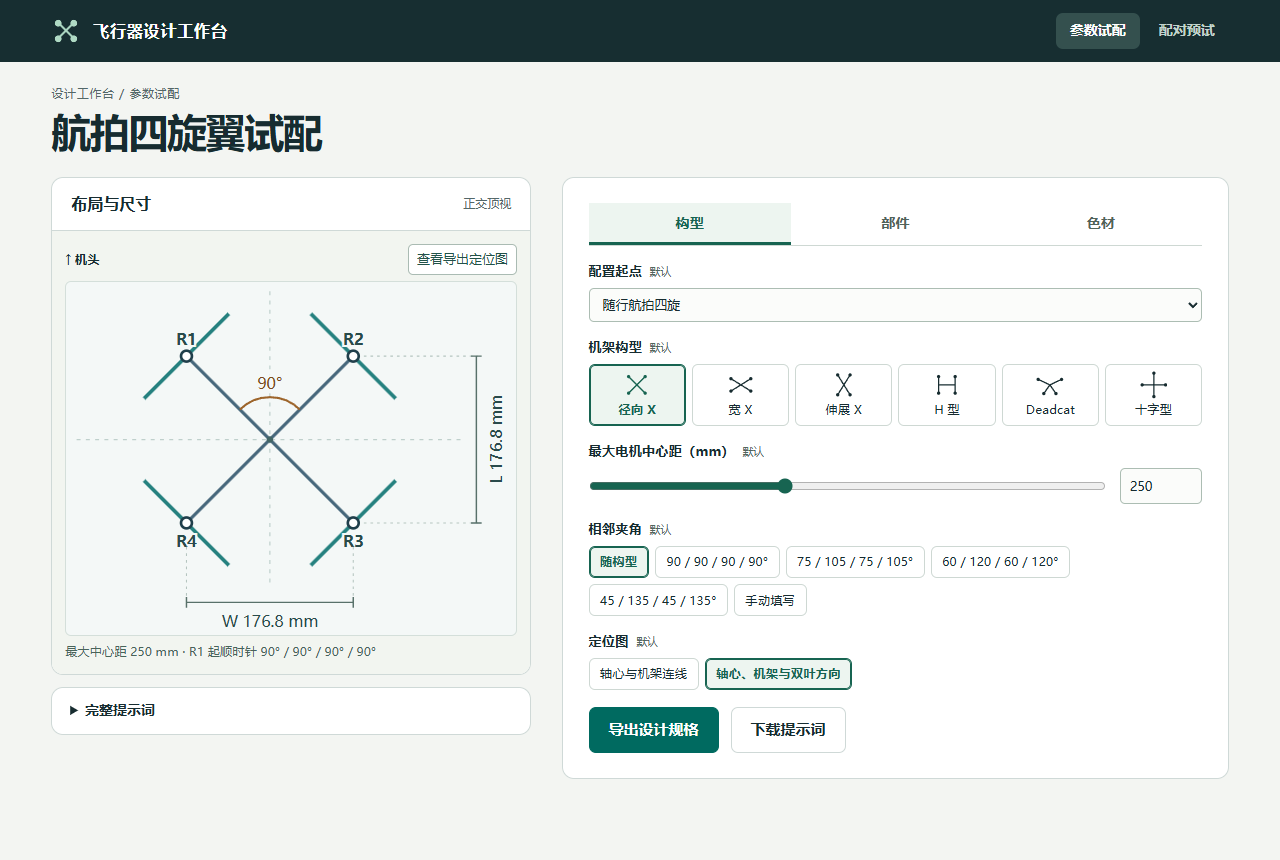
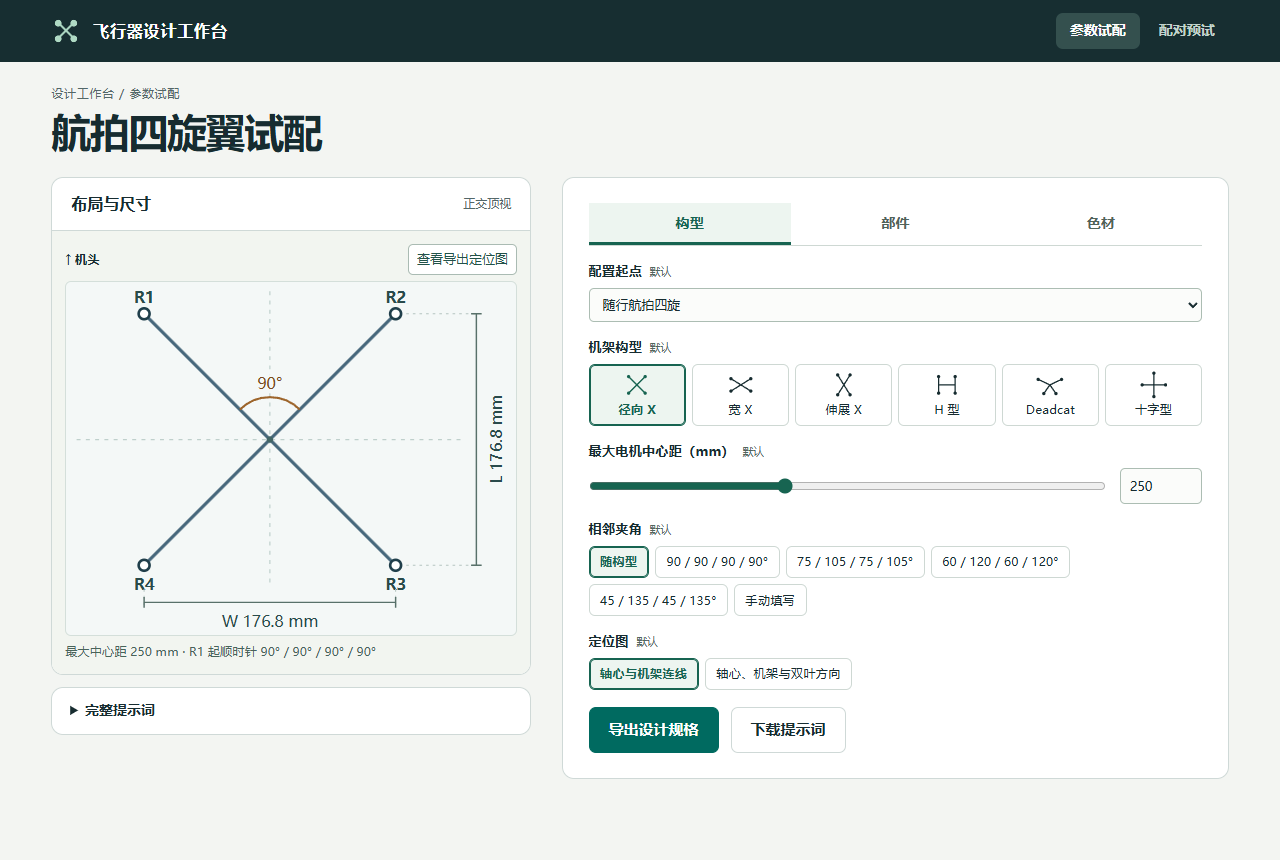
试配默认采用早期轴心连线图，保存构型界面实测预览

diff --git a/prototypes/e4-author-pilot/native-source/src/design/c1Model.ts b/prototypes/e4-author-pilot/native-source/src/design/c1Model.ts
@@ -75,7 +75,7 @@ export function evaluate(selection:Selection,studyLayout=false) {
     preset:'base',frame:p.frame.frame_type,span:p.frame.wheelbase_mm,angles:'frame',custom:'',
     body:seeded?p.fuselage.fuselage_style:'open',camera:'open',root:'open',seams:'open',
     material:p.frame.material_visual,width:p.frame.arm_width_mm,thickness:p.frame.arm_thickness_mm,
-    color:p.accessories.drone_primary_color,finish:d.shellFinish ?? 'matte',guide:d.guideTips?'tips':'axes',
+    color:p.accessories.drone_primary_color,finish:d.shellFinish ?? 'matte',guide:seeded && d.guideTips?'tips':'axes',
   };
   if(studyLayout)Object.assign(defaults,studyValues);
   const v={...defaults,...raw};

diff --git a/prototypes/e4-author-pilot/selection.js b/prototypes/e4-author-pilot/selection.js
@@ -434,7 +434,7 @@ var C1Selection = (() => {
       thickness: p.frame.arm_thickness_mm,
       color: p.accessories.drone_primary_color,
       finish: d.shellFinish ?? "matte",
-      guide: d.guideTips ? "tips" : "axes"
+      guide: seeded && d.guideTips ? "tips" : "axes"
     };
     if (studyLayout) Object.assign(defaults, studyValues);
     const v = { ...defaults, ...raw };

diff --git a/evidence/20261117-config-review/A1-extension/README.md b/evidence/20261117-config-review/A1-extension/README.md
@@ -2,7 +2,7 @@
 
 [合并参数表：24 个不同型号、50 条状态记录](a1-all-models.csv)。按机型与状态分层，原件定位沿用各批登记。
 
-本次新增 **8 款、16 条状态记录**，其中 7 款为非共轴植保六旋，1 款为消费航拍四旋。每款各有一行展开、一行折叠。按厂商和真实型号与[原表](../../A1-A4-C1/a1-model-specs.csv)去重后，两表共 24 款、50 条状态记录，其中植保六旋 10 款、四旋 14 款。该合计描述型号覆盖，各项参数的可用样本量见[逐机复核摘要](verification-summary.md)。
+本次新增 **8 款、16 条状态记录**，其中 7 款为非共轴植保六旋，1 款为消费航拍四旋。每款各有一行展开、一行折叠。按厂商和真实型号与[原表](../../20261117-a1-a4-c1/a1-model-specs.csv)去重后，两表共 24 款、50 条状态记录，其中植保六旋 10 款、四旋 14 款。该合计描述型号覆盖，各项参数的可用样本量见[逐机复核摘要](verification-summary.md)。
 
 ## 文件与复核方法
 
